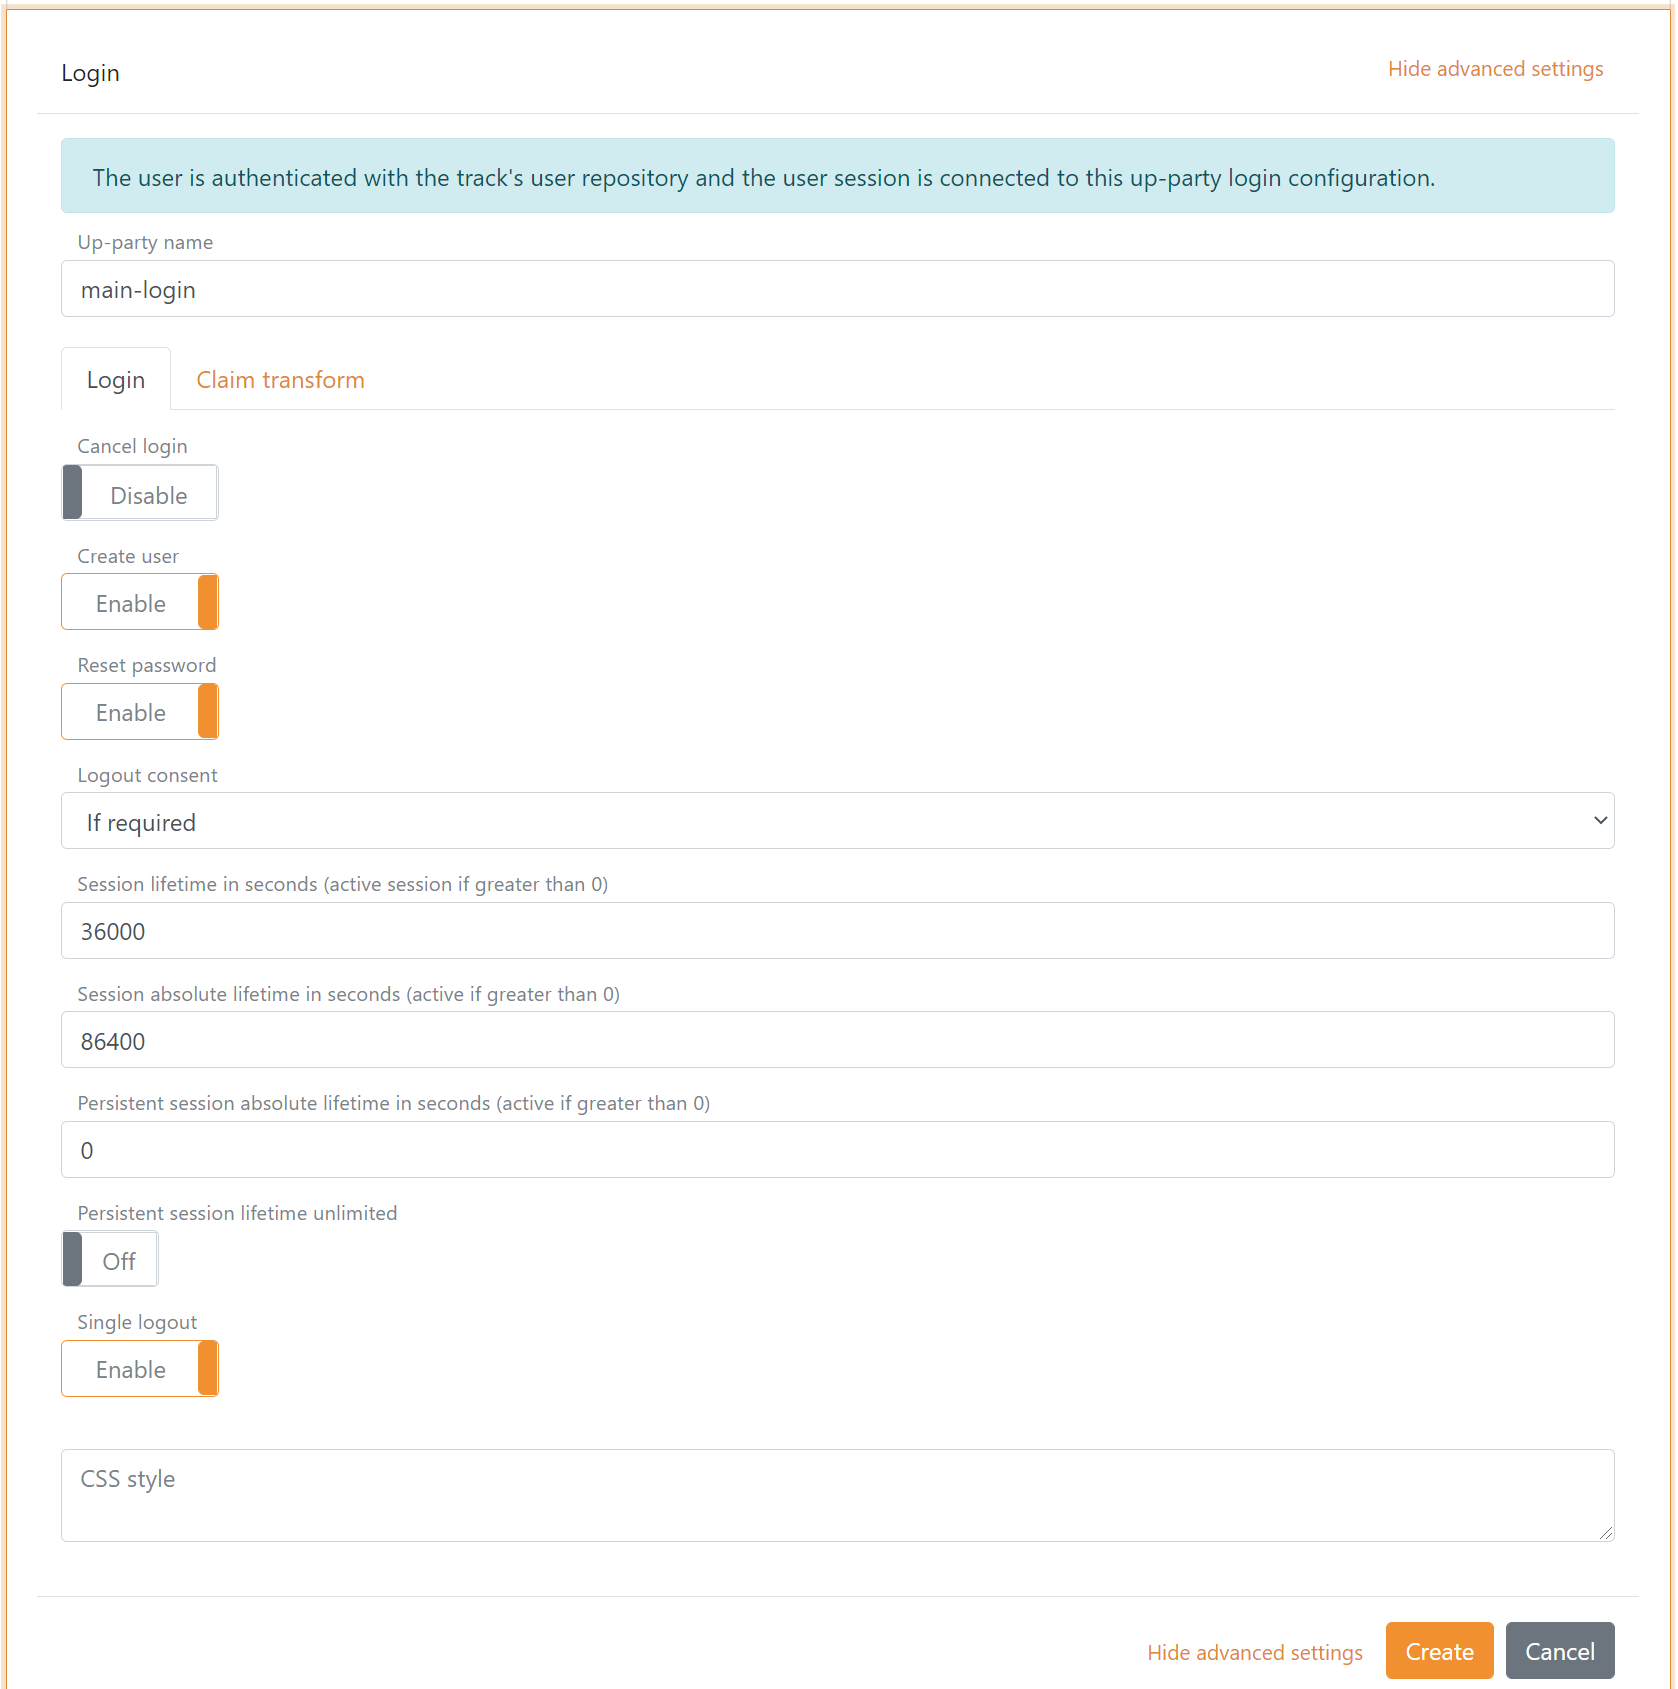
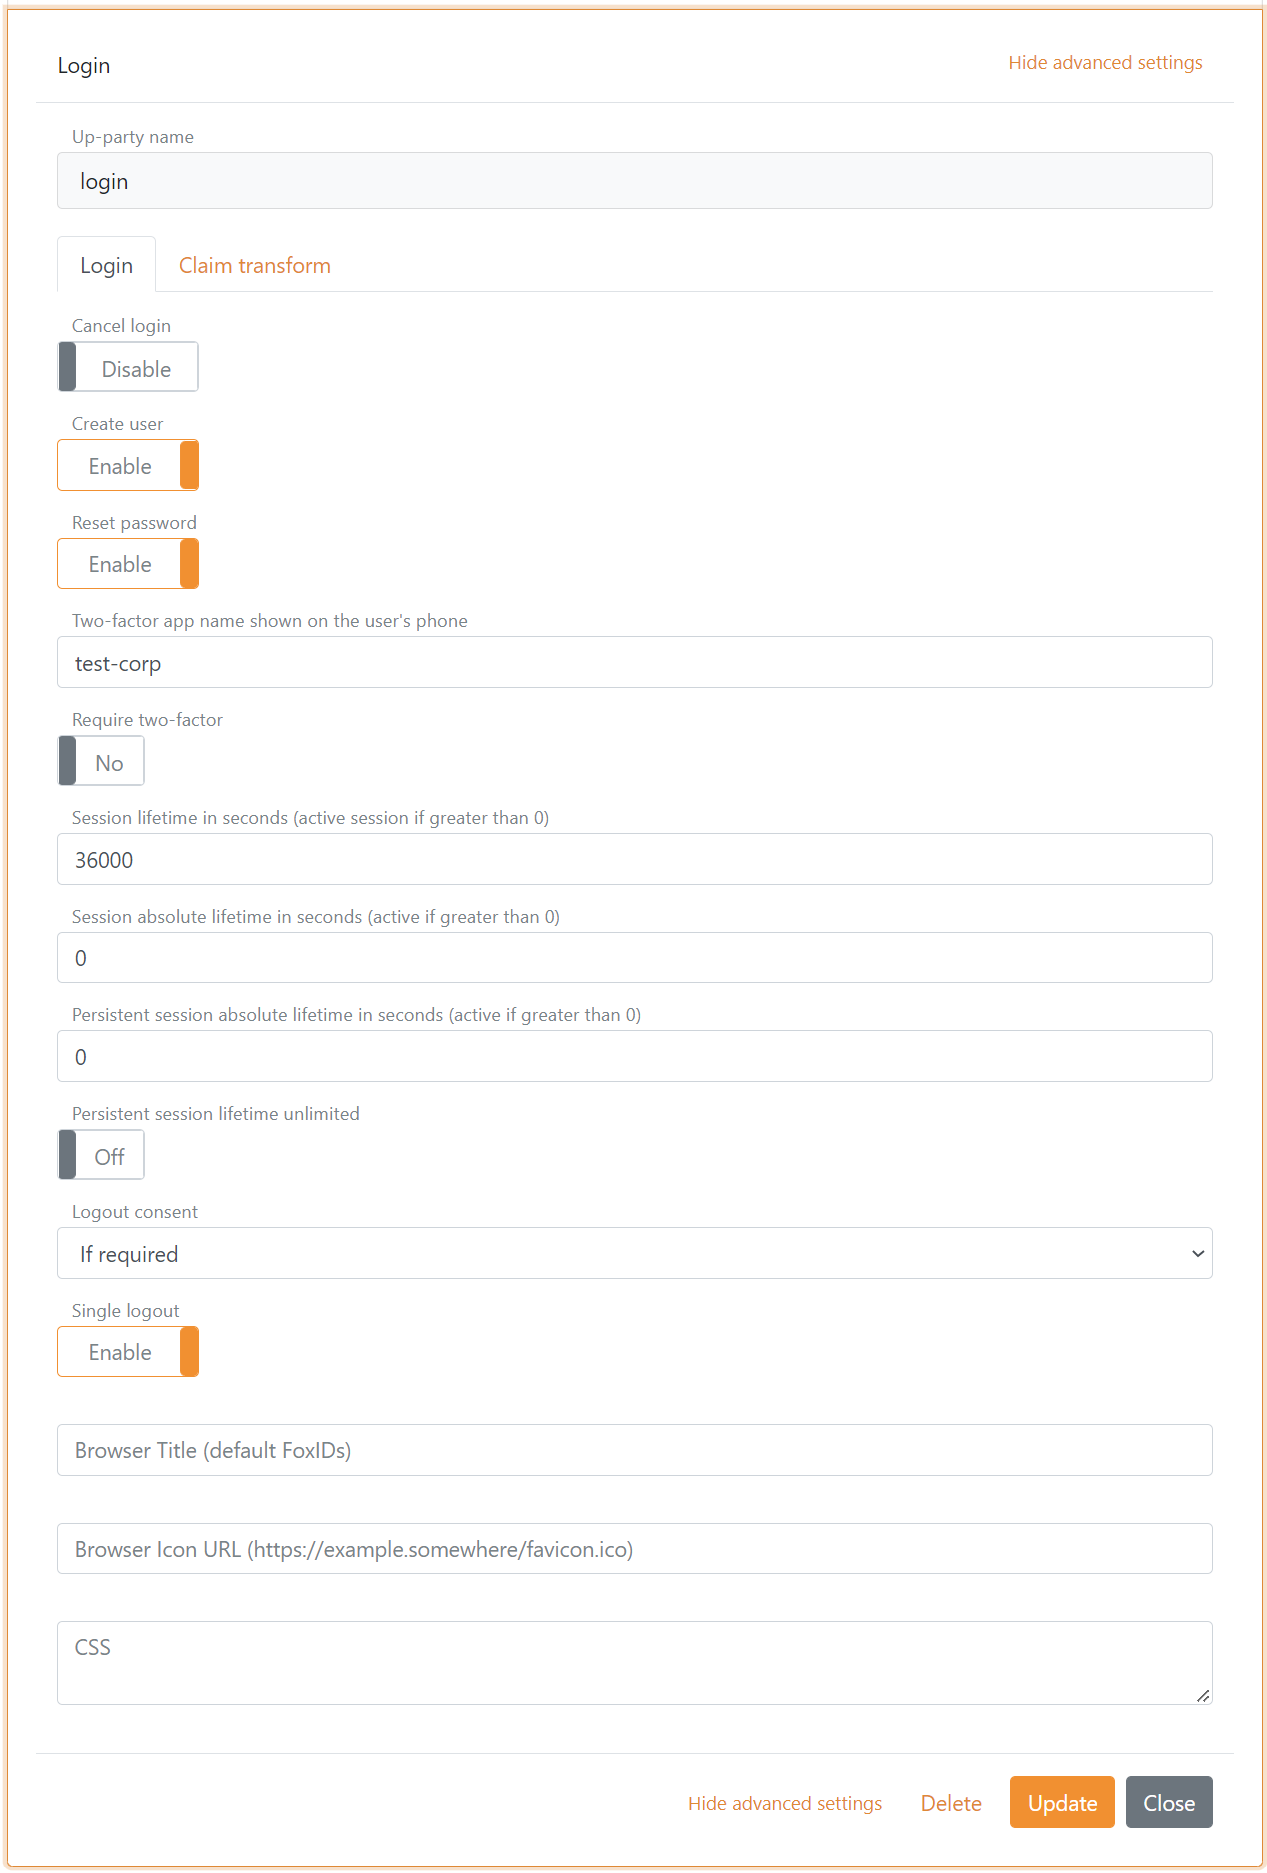
docs, 2FA

Changed region(s): [[0.0, 0.0, 1.0, 1.0]]

diff --git a/src/FoxIDs.ControlClient/Models/ViewModels/Tracks/LoginUpPartyViewModel.cs b/src/FoxIDs.ControlClient/Models/ViewModels/Tracks/LoginUpPartyViewModel.cs
@@ -78,7 +78,7 @@ namespace FoxIDs.Client.Models.ViewModels
         /// The name of the app when two-factor authentication (2FA) is configured on the users phone. 
         /// </summary>
         [MaxLength(Constants.Models.LoginUpParty.TwoFactorAppNameLength)]
-        [Display(Name = "Two-factor app name on the users phone")]
+        [Display(Name = "Two-factor app name shown on the user's phone")]
         public string TwoFactorAppName { get; set; }
 
         /// <summary>

diff --git a/docs/login.md b/docs/login.md
@@ -1,46 +1,77 @@
-# Login
-FoxIDs support user login in an up-party login interface. There can be configured a number of up-party login's per track with different configurations.   
-A track contains one [user repository](#user-repository) and all up-party login's configured in a track authenticate user's with the same user repository.
+# Login and 2FA / MFA
+FoxIDs handle user login in the up-party login user interface (UI). There can be configured a number of up-party logins per track with different configurations and look and feel.
 
-When a user authenticates the user's session is connected to the particular up-party login. Therefore, a user can authenticate in multiple configured up-party login's and have multiple separate user sessions. A up-party login will create a user session after the user is authenticated if the session lifetime is configured to more than 0 seconds.
+A track contains one [user repository](#user-repository) and all up-party login's configured in a track authenticate users with the same user repository.
+
+When a user authenticates the user's session is connected to the particular up-party login. Therefore, a user can authenticate in multiple configured up-party login's and have multiple separate user sessions.  
+A user session is only established in the up-party login if the session lifetime is set to more than 0 seconds.
 
 A [down-party OpenID Connect](down-party-oauth-2.0-oidc.md) or [down-party SAML 2.0](down-party-saml-2.0.md) can authenticate users by selecting an up-party login.
 
 ![FoxIDs login](images/parties-login.svg)
 
-The up-party login interface authenticates user's in a one-step user interface with the username and password on the same page. In the future, a two-step login interface will be added hawing the username and password input on two separate pages.
+The up-party login user interface authenticates users in a one-step user interface with the username and password on the same page. In the future, a two-step login interface will be added hawing the username and password input on two separate pages.
 
-In the future, support for Two-factor authentication will be added.
+## Two-factor authentication (2FA/MFA)
+Two-factor authentication with an authenticator app is per default enabled and is initiated if required.  
+Two-factor authentication can be set as a requirement in each up-party login or required by the calling [OpenID Connect](down-party-oidc.md#require-two-factor-authentication) or [SAML 2.0](down-party-saml-2.0.md#require-two-factor-authentication) down-party.  
+
+You can use a two-factor authenticator app of your choice like [Anthy](https://authy.com/), [Google Authenticator](https://support.google.com/accounts/answer/1066447), [Microsoft Authenticator](https://www.microsoft.com/en-us/security/mobile-authenticator-app) and others.
 
 ## Configuration
 A default up-party login is created in each track. 
 
 > The default login can be changed or deleted but be careful as you may lose access.
 
-It can be configured if the user should be allowed to cancel login. Likewise, it is configurable rather users are allowed to create a new user in the login interface. New users can alternatively be created through [FoxIDs Control Client](control.md#foxids-control-client) or be provisioned through [FoxIDs Control API](control.md#foxids-control-api).
-
-The following screen shut show how to create an up-party login with user sessions set to having a 10 hours lifetime (sliding session).
+### Configure login options
+It can be configured whether users should be allowed to cancel login and whether users are allowed to create a new user online through the login user interface. New users can alternatively be created by the administrator through [FoxIDs Control Client](control.md#foxids-control-client) or be provisioned through [FoxIDs Control API](control.md#foxids-control-api).
 
 ![Configure Login](images/configure-login.png)
 
-It is possible to configure an absolute session lifetime in the advanced settings. And if the persistent session is configured the session is also preserved after the browser has been closed.
+### Configure two-factor authentication
+The Two-factor authenticator app name shown for the user's is per default set to the tenant's name. You most likely want to change the name to something more human readable.
 
+You can select to require two-factor authentication for all users authenticating using the up-party login. 
+
+![Configure Login](images/configure-login-2fa.png)
+
+
+### Configure user session
+The user sessions lifetime can be changed. The default lifetime is 10 hours. 
+The user session is a sliding session, where the lifetime is extended every time, an application makes a login request until the absolute session lifetime is reached.  
+It is possible to configure an absolute session lifetime in the advanced settings.
+
+The user session can be changed to a persistent session which is preserved when the browser is closed and reopened.  
+The user session become a persistent session if either the persistent session lifetime is configured to be grater, then 0. Or the persistent session lifetime unlimited setting is set to on.
+
+> Click `show advanced settings` to see all session settings.
+
+![Configure Login](images/configure-login-session.png)
+
+
+### Configure customization
 The up-party login interface can be [customized with custom title, icon and CSS](title-icon-css).
+
+![Configure Login](images/configure-login-customization.png)
+
+### Configure claims
+You can change the claims the up-party login pass on with [claim transforms](claim-transform.md).
+
+### All login configurations
+All login configurations are available after clicking show advanced settings.
 
 ![Configure Login](images/configure-login-advanced.png)
 
-> Change the claims the up-party pass on with [claim transforms](claim-transform.md).
-
 ## User repository 
 Each track contains a user repository supporting an unlimited number of users because they are saved in Cosmos DB. The users id, email and other claims are saved as text.  
-The password is never saved needer in logs or in Cosmos DB. Instead a hash of the password is saved along with the rest of the user information.
+The password is never saved needer in logs or in Cosmos DB. Instead, a hash of the password is saved along with the rest of the user information.
 
 ### Password hash
 FoxIDs is designed to support a growing number of algorithms with different iterations by saving information about the hash algorithm used alongside the actually hash. Therefore, FoxIDs can validate an old hash algorithm and at the same time save new hashes with a new hash algorithm.
 
 Currently FoxIDs support and use hash algorithm `P2HS512:10` which is defined as:
 
-- The HMAC algorithm (RFC 2104) using the SHA-512 hash function (FIPS 180-4).
+- The `HMAC` algorithm (`RFC 2104`) using the `SHA-512` hash function (`FIPS 180-4`).
 - With 10 iterations.
 - Salt is generated from 64 bytes.
 - Derived key length is 80 bytes.

diff --git a/docs/down-party-saml-2.0.md b/docs/down-party-saml-2.0.md
@@ -17,7 +17,34 @@ Both the login, logout and single logout [SAML 2.0 profiles](https://docs.oasis-
 How to guides:
 
 - Connect [AD FS](down-party-howto-saml-2.0-adfs.md)
-- Connect yyy
+
+## Require two-factor authentication (2FA/MFA)
+The SAML 2.0 Relying Party (RP) can require two-factor authentication by specifying the `urn:foxids:mfa` value in the `RequestedAuthnContext.AuthnContextClassRef` property.
+
+The `AuthnContextClassRef` property can be set in the `Login` method in `SamlController.cs`:
+
+    public IActionResult Login(string returnUrl = null)
+    {
+        var binding = new Saml2RedirectBinding();
+        binding.SetRelayStateQuery(new Dictionary<string, string>
+        {
+            { relayStateReturnUrl, returnUrl ?? Url.Content("~/") }
+        });
+
+        var saml2AuthnRequest = new Saml2AuthnRequest(saml2Config)
+        {
+            // To require MFA
+            RequestedAuthnContext = new RequestedAuthnContext
+            {
+                Comparison = AuthnContextComparisonTypes.Exact,
+                AuthnContextClassRef = new string[] { "urn:foxids:mfa" },
+            }
+        };
+
+        return binding.Bind(saml2AuthnRequest).ToActionResult();
+    }
+
+See more code in the [AspNetCoreSamlSample](samples.md#aspnetcoresamlsample) and [SamlController.cs line 104](https://github.com/ITfoxtec/FoxIDs.Samples/blob/master/src/AspNetCoreSamlSample/Controllers/SamlController.cs#L104).
 
 ## Configuration
 How to configure your application as an SAML 2.0 Relying Party (RP).

diff --git a/docs/down-party-oidc.md b/docs/down-party-oidc.md
@@ -24,6 +24,20 @@ FoxIDs support the OpenID Connect [UserInfo endpoint](https://openid.net/specs/o
 
 > It is recommended to use OpenID Connect Authorization Code flow with PKCE, because it is considered a secure flow.
 
+## Require two-factor authentication (2FA/MFA)
+The OpenID Connect client can require two-factor authentication by specifying the `urn:foxids:mfa` value in the `AcrValues` parameter.
+
+The `AcrValues` parameter can be set in the `OnRedirectToIdentityProvider` event in `Startup.cs`:
+
+    options.Events.OnRedirectToIdentityProvider = (context) =>
+    {
+        // To require MFA
+        context.ProtocolMessage.AcrValues = "urn:foxids:mfa";
+        return Task.FromResult(string.Empty);
+    };
+
+See more code in the [AspNetCoreOidcAuthorizationCodeSample](samples.md#aspnetcoreoidcauthorizationcodesample) and [Startup.cs line 141](https://github.com/ITfoxtec/FoxIDs.Samples/blob/master/src/AspNetCoreOidcAuthorizationCodeSample/Startup.cs#L141).
+
 ## Configuration
 How to configure your application as a down-party OpenID Connect Relaying Party (RP) / client.
 

diff --git a/docs/_sidebar.md b/docs/_sidebar.md
@@ -1,7 +1,7 @@
 - [Description](index.md)
 - [Getting Started](getting-started.md)
 - [Parties](parties.md)
-  - [Login](login.md)
+  - [Login & 2FA/MFA](login.md)
   - [OpenID Connect](oidc.md)
   - [OAuth 2.0](oauth-2.0.md)
   - [SAML 2.0](saml-2.0.md)
